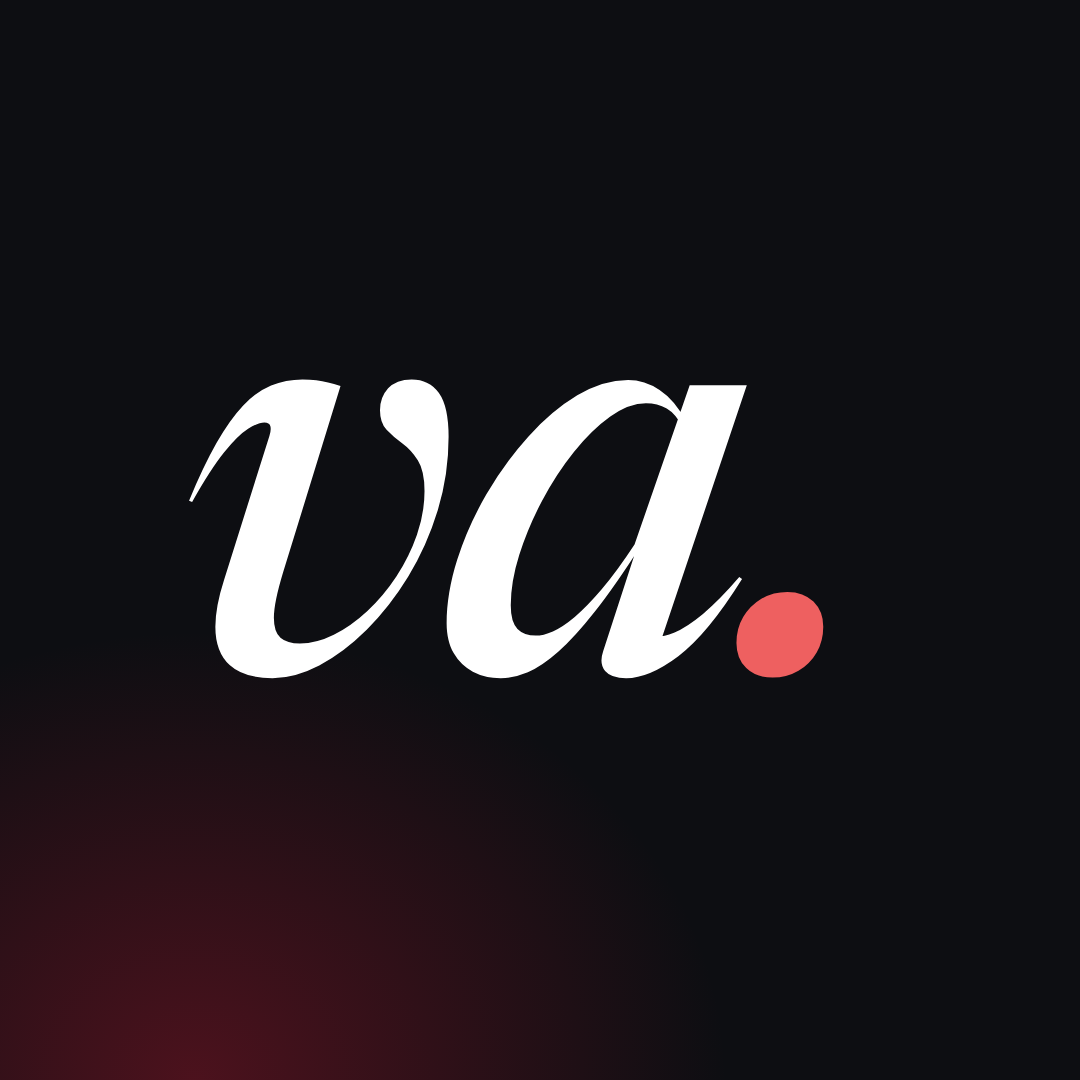
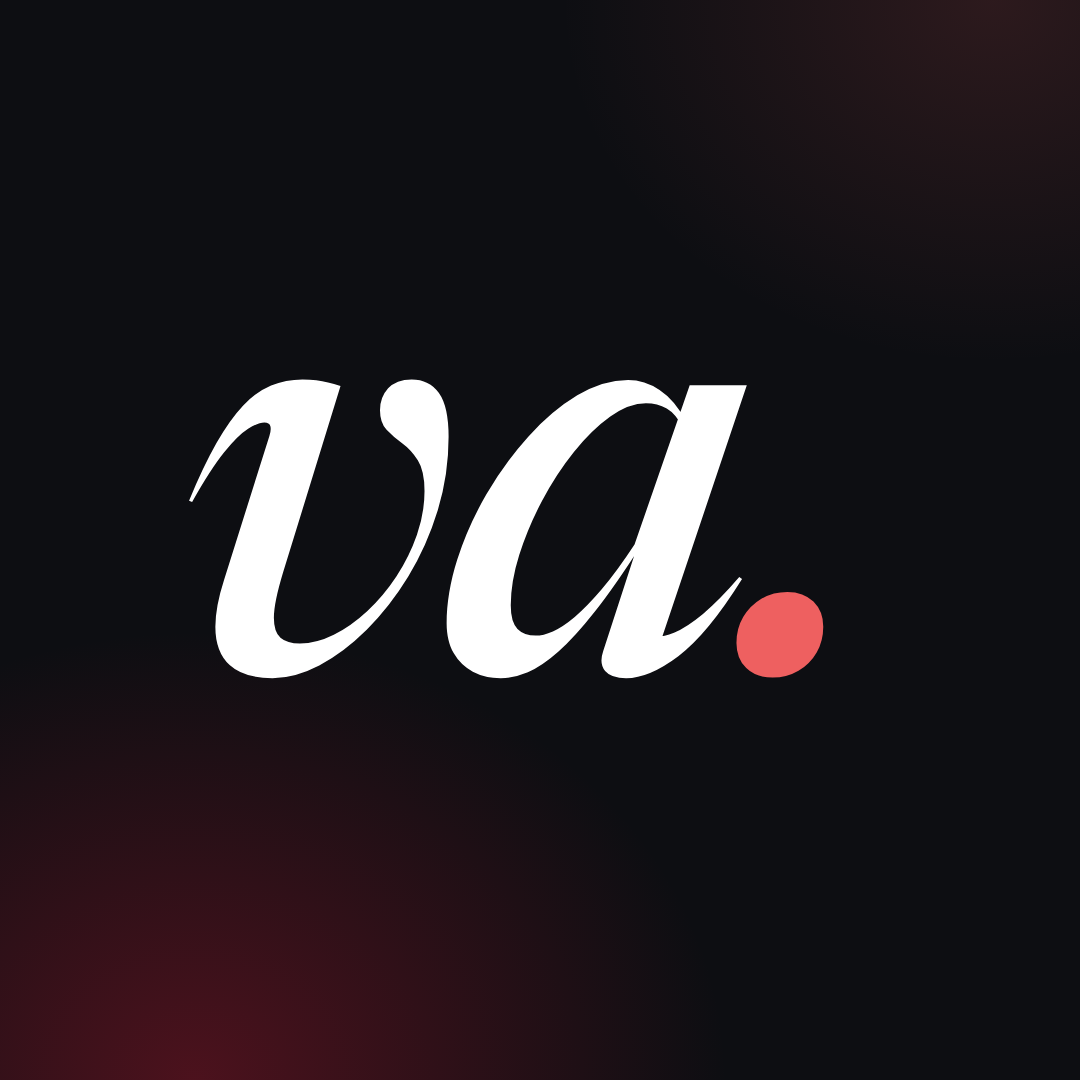
Photo de profil : variantes « va. » et « va » + coche
d : « va » et une coche rouge (« va checker ») ; e : « va. » sur fond
clair ; ?apercu=acde pour les comparer en cercle.

Changed region(s): [[0.825, 0.0, 1.0, 0.0917]]

diff --git a/social/profil.html b/social/profil.html
@@ -1,7 +1,7 @@
 <!doctype html>
 <!-- Photo de profil Instagram / TikTok de vachecker.info, 1080 × 1080.
-     ?v=a|b|c : variante ; ?apercu=1 : les trois en cercle, aux tailles réelles.
-     Capture : chrome --headless=new --window-size=1080,1080 --screenshot=… "profil.html?v=a" -->
+     ?v=a|b|c|d|e : variante ; ?apercu=1 : les variantes en cercle, aux tailles réelles.
+     Capture : chrome --headless=new --allow-file-access-from-files --window-size=1080,1080 --screenshot=… "profil.html?v=c" -->
 <html lang="fr">
 <head>
 <meta charset="utf-8">
@@ -12,20 +12,20 @@
   :root { --red: #ee6060; --ink: #0d0e12; }
   html, body { margin: 0; background: var(--ink); }
   .pic { position: relative; width: 1080px; height: 1080px; overflow: hidden; display: grid; place-items: center; }
-  /* a : « v. » blanc sur fond sombre, le point rouge comme le « .info » */
-  .a { background: radial-gradient(760px 640px at 18% 100%, rgba(163, 23, 44, 0.42), transparent 70%),
-                   radial-gradient(620px 520px at 92% 0%, rgba(238, 96, 96, 0.14), transparent 70%), var(--ink); }
-  /* b : même chose sur fond clair, comme le site */
-  .b { background: #ffffff; }
-  /* c : « va. » plus proche du nom */
-  .c { background: radial-gradient(760px 640px at 18% 100%, rgba(163, 23, 44, 0.42), transparent 70%), var(--ink); }
+  .dark { background: radial-gradient(760px 640px at 18% 100%, rgba(163, 23, 44, 0.42), transparent 70%),
+                      radial-gradient(620px 520px at 92% 0%, rgba(238, 96, 96, 0.14), transparent 70%), var(--ink); }
+  .light { background: #ffffff; }
   .mark { font-family: 'Newsreader', serif; font-style: italic; font-weight: 500; line-height: 1; letter-spacing: -0.02em; color: #fff;
     transform: translate(-3%, 0); white-space: nowrap; }
-  .a .mark { font-size: 760px; }
-  .b .mark { font-size: 760px; color: #1c1c1c; }
-  .c .mark { font-size: 560px; }
+  .light .mark { color: #1c1c1c; }
   .mark i { font-style: inherit; color: var(--red); }
-  .b .mark i { color: #a3172c; }
+  .light .mark i { color: #a3172c; }
+  /* a, b : « v. » ; c, e : « va. » ; d : « va » et une coche rouge (« va checker ») */
+  .a .mark, .b .mark { font-size: 760px; }
+  .c .mark, .e .mark { font-size: 560px; }
+  .d .mark { font-size: 490px; transform: translate(-4%, 0); }
+  .ck { display: inline-block; width: 0.36em; height: 0.36em; margin-left: 0.05em; vertical-align: 0; transform: skewX(-12deg); overflow: visible; }
+  .ck path { fill: none; stroke: var(--red); stroke-width: 19; stroke-linecap: round; stroke-linejoin: round; }
 
   /* Aperçu : cercles aux tailles d'Instagram (profil ≈ 150 px, fil ≈ 32 px) */
   .apercu { background: #fafafa; font-family: 'Archivo', sans-serif; padding: 40px; display: grid; gap: 36px; }
@@ -43,10 +43,14 @@
 <body>
 <script>
   const q = new URLSearchParams(location.search);
-  const pic = (v) => `<div class="pic ${v}"><div class="mark">${v === 'c' ? 'va<i>.</i>' : 'v<i>.</i>'}</div></div>`;
+  const CHECK = '<svg class="ck" viewBox="0 0 100 100" aria-hidden="true"><path d="M8 56 L38 86 L94 12"/></svg>';
+  const MARKS = { a: 'v<i>.</i>', b: 'v<i>.</i>', c: 'va<i>.</i>', d: 'va' + CHECK, e: 'va<i>.</i>' };
+  const BG = { a: 'dark', b: 'light', c: 'dark', d: 'dark', e: 'light' };
+  const pic = (v) => `<div class="pic ${v} ${BG[v]}"><div class="mark">${MARKS[v]}</div></div>`;
   if (q.get('apercu')) {
     document.body.className = 'apercu';
-    document.body.innerHTML = ['a', 'b', 'c'].map((v) => `<div class="row"><b>${v.toUpperCase()}</b>
+    const show = (q.get('apercu') === '1' ? 'abc' : q.get('apercu')).split('');
+    document.body.innerHTML = show.map((v) => `<div class="row"><b>${v.toUpperCase()}</b>
       <div class="big">${pic(v)}</div><div class="mid">${pic(v)}</div><div class="sm">${pic(v)}</div>
       <span>vachecker.info</span></div>`).join('');
   } else {
